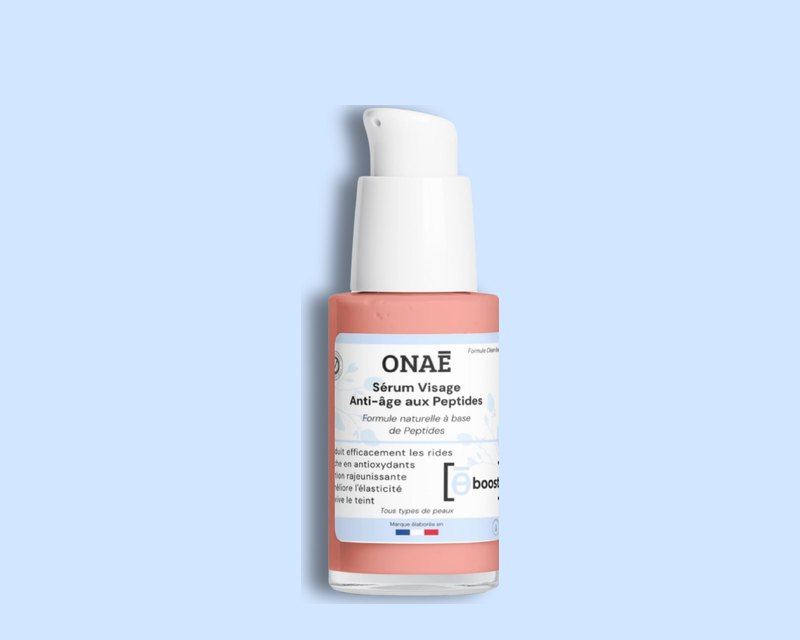
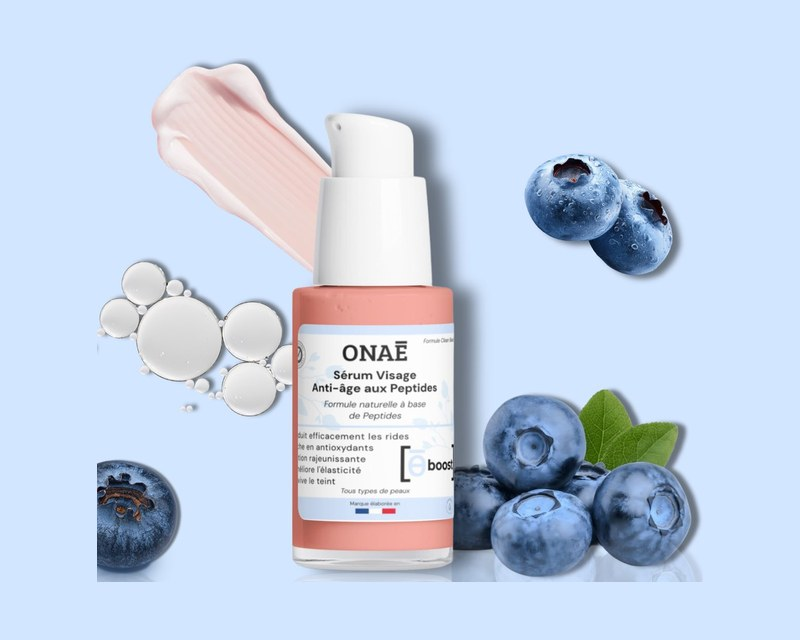
Accueil : cartes produits alignées sur la 1re photo de la galerie
Les cartes de l'accueil utilisent card-<id>.jpg, resté sur l'ancien
packshot pour les 3 soins dont la photo principale a changé (peptides,
prébiotiques, caféine). Nouveau script rejouable scratchpad/gen-card.py :
détecte le sujet dans gallery[0] (hors logos de marque et de gamme),
coupe le reflet et le recompose à l'échelle sur le fond de la gamme
en 800x640.

card-<id>.jpg garde son nom (codé en dur dans index.html) : ajout de
?v=2 sur l'URL pour casser le cache images de 24 h. Incrémenter ce
numéro à chaque régénération d'une carte. products.json?v=220.

Claude-Session: https://claude.ai/code/session_017nLZ9yWdzh1WbcLi5DTaPR

diff --git a/index.html b/index.html
@@ -1288,7 +1288,7 @@ button{cursor:pointer;border:none;background:none;font-family:inherit}
   }
   function start(){ clearInterval(loop); if(reduce) return; loop = setInterval(() => { if(visible) show((cur + 1) % R.length); }, DUR); }
 
-  fetch('/products.json?v=219').then(r => r.json()).then(d => {
+  fetch('/products.json?v=220').then(r => r.json()).then(d => {
     (d.products || []).forEach(p => { const b = (p.bundles || [])[0]; if(b && b.price_raw > 0) by[p.id] = {id:p.id, name:p.name, l2:p.name_line2 || '', price:b.price_raw, orig:b.original_price_raw || 0, c:GC[p.gamme] || '#f0ece8', cat:p.category, gamme:p.gamme}; });
     R.splice(0, R.length, ...R.filter(r => r.ids.every(id => by[id])));
     if(!R.length) return;
@@ -1959,7 +1959,7 @@ html body :is(#products,#nouveautes) .pg-arr{display:none!important}
     const off = p.price_before > raw ? Math.floor((1 - raw / p.price_before) * 100 + 1e-9) : 0;
     return `<a href="/produits/${p.id}" class="pcard">
         <div class="pimg-wrap">
-          <img decoding="async" class="pimg" src="${/^carte-cadeau/.test(p.id) ? p.image : 'card-' + p.id + '.jpg'}" alt="${p.image_alt}" loading="lazy">
+          <img decoding="async" class="pimg" src="${/^carte-cadeau/.test(p.id) ? p.image : 'card-' + p.id + '.jpg?v=2'}" alt="${p.image_alt}" loading="lazy">
           ${p.badge ? `<div class="pbadge" style="${badgeStyle}">${p.badge}</div>` : ''}
         </div>
         <div class="pinfo">
@@ -2063,7 +2063,7 @@ html body :is(#products,#nouveautes) .pg-arr{display:none!important}
     </div>`;
   }
 
-  fetch('/products.json?v=219')
+  fetch('/products.json?v=220')
     .then(r => r.json())
     .then(data => {
       const DEMO = new Set(['serum-eclat-peptides','creme-reparatrice-intense','essence-hydratante-pro','huile-nuit-reparatrice']);

diff --git a/makeup.html b/makeup.html
@@ -629,7 +629,7 @@ button{cursor:pointer;border:none;background:none;font-family:inherit}
   const G = document.getElementById('mkPrep');
   const fmt = n => n.toFixed(2).replace('.', ',') + ' €';
   const IDS = [['serum-anti-age-peptides','Étape 1 · Le sérum'],['creme-contour-yeux-peptides','Étape 2 · Le regard'],['creme-anti-age-peptides','Étape 3 · La crème']];
-  fetch('products.json?v=219').then(r => r.json()).then(d => { const P = d.products || d;
+  fetch('products.json?v=220').then(r => r.json()).then(d => { const P = d.products || d;
     G.innerHTML = IDS.map(([id, st]) => { const p = P.find(x => x.id === id); if(!p) return ''; const b = (p.bundles || [])[0] || {};
       const pr = b.price_raw, ref = b.original_price_raw, off = ref > pr ? Math.floor((1 - pr/ref)*100) : 0;
       return `<article class="mk-pc rv in"><a class="im" href="/produits/${p.id}"><img src="bar-${p.id}-hd.jpg" alt="${p.name} ${p.name_line2 || ''}" loading="lazy"></a><div class="bd"><p class="st">${st}</p><h3>${p.name} ${p.name_line2 || ''}</h3><div class="pr"><b>${pr ? fmt(pr) : ''}</b>${off ? `<s>${fmt(ref)}</s><em>−${off} %</em>` : ''}</div><div class="ac"><a href="/produits/${p.id}">Découvrir</a><button type="button" data-add-to-cart="${p.id}">Ajouter</button></div></div></article>`; }).join('');

diff --git a/homme.html b/homme.html
@@ -649,7 +649,7 @@ button{cursor:pointer;border:none;background:none;font-family:inherit}
   const G = document.getElementById('hmPrep');
   const fmt = n => n.toFixed(2).replace('.', ',') + ' €';
   const IDS = [['serum-booster-cafeine','Le coup de fouet'],['patchs-yeux-cafeine-vitamine-c','Le regard express'],['huile-fortifiante-romarin','La force du cheveu']];
-  fetch('products.json?v=219').then(r => r.json()).then(d => { const P = d.products || d;
+  fetch('products.json?v=220').then(r => r.json()).then(d => { const P = d.products || d;
     G.innerHTML = IDS.map(([id, st]) => { const p = P.find(x => x.id === id); if(!p) return ''; const b = (p.bundles || [])[0] || {};
       const pr = b.price_raw, ref = b.original_price_raw, off = ref > pr ? Math.floor((1 - pr/ref)*100) : 0;
       return `<article class="hm-pc rv in"><a class="im" href="/produits/${p.id}"><img src="bar-${p.id}-hd.jpg" alt="${p.name} ${p.name_line2 || ''}" loading="lazy"></a><div class="bd"><p class="st">${st}</p><h3>${p.name} ${p.name_line2 || ''}</h3><div class="pr"><b>${pr ? fmt(pr) : ''}</b>${off ? `<s>${fmt(ref)}</s><em>−${off} %</em>` : ''}</div><div class="ac"><a href="/produits/${p.id}">Découvrir</a><button type="button" data-add-to-cart="${p.id}">Ajouter</button></div></div></article>`; }).join('');

diff --git a/panier.html b/panier.html
@@ -1076,7 +1076,7 @@ body{background:#fbf7f8}
   /* ═══ Recommandations « qui font sens » + upsell avant paiement ═══ */
   const DEMO = new Set(['serum-eclat-peptides','creme-reparatrice-intense','essence-hydratante-pro','huile-nuit-reparatrice']);
   let PRODS = {};
-  const prodsReady = fetch('/products.json?v=219').then(r => r.json()).then(d => { (d.products || []).forEach(p => PRODS[p.id] = p); }).catch(() => {});
+  const prodsReady = fetch('/products.json?v=220').then(r => r.json()).then(d => { (d.products || []).forEach(p => PRODS[p.id] = p); }).catch(() => {});
   const kindOf = p => { const n = (p.name || '').toLowerCase(), c = p.category || 'visage';
     if (c === 'cheveux') return /shampoing/.test(n) ? 'shampoing' : /masque/.test(n) ? 'masque' : /huile/.test(n) ? 'huile' : /gommage/.test(n) ? 'gommage' : /brume/.test(n) ? 'brume-cheveux' : /sérum/.test(n) ? 'serum-cuir' : 'soin-cheveux';
     if (/patchs/.test(n)) return 'patchs'; if (c === 'yeux') return 'contour'; if (/peeling/.test(n)) return 'peeling'; if (/brume/.test(n)) return 'brume'; if (/sérum/.test(n)) return 'serum'; if (/crème/.test(n)) return 'creme'; return 'autre'; };

diff --git a/bar-a-routines.html b/bar-a-routines.html
@@ -459,7 +459,7 @@ body{background:#fff}
     {n:'Cheveux de soie', t:'Cheveux', d:'La kératine pour réparer, le romarin pour fortifier : des longueurs brillantes et souples.', bg:'#f9db86', ids:['shampoing-keratine','masque-cheveux-keratine','huile-fortifiante-romarin']}];
   const fmt = n => n.toFixed(2).replace('.', ',') + ' €', pct = (r, p) => r > p ? Math.floor((1 - p / r) * 100 + 1e-9) : 0;
   const barP = s => { const t = Math.floor(Math.round(s * 100) * .8); return (Math.floor((t + 1) / 100) * 100 - 1) / 100; };
-  fetch('/products.json?v=219').then(r => r.json()).then(d => {
+  fetch('/products.json?v=220').then(r => r.json()).then(d => {
     const by = {}; (d.products || []).forEach(p => by[p.id] = p);
     document.getElementById('biGrid').innerHTML = TRIOS.map((T, k) => { const ps = T.ids.map(i => by[i]).filter(Boolean); if(ps.length !== 3) return '';
       const sum = ps.reduce((s,p) => s + p.bundles[0].price_raw, 0), ref = ps.reduce((s,p) => s + (p.bundles[0].original_price_raw || p.bundles[0].price_raw), 0), pr = barP(sum);

diff --git a/nos-ingredients.html b/nos-ingredients.html
@@ -522,12 +522,12 @@ body{background:var(--paper)}
     }).join('');
     watch();
   }
-  fetch('/products.json?v=219').then(r => r.json()).then(d => render(d.products || [])).catch(() => render([]));
+  fetch('/products.json?v=220').then(r => r.json()).then(d => render(d.products || [])).catch(() => render([]));
   watch();
 
 
   /* ═ peptides : produits + molécule 3D ═ */
-  fetch('/products.json?v=219').then(r => r.json()).then(d => {
+  fetch('/products.json?v=220').then(r => r.json()).then(d => {
     const box = $('ppProds'), DEMO2 = ['serum-eclat-peptides','creme-reparatrice-intense','essence-hydratante-pro','huile-nuit-reparatrice'];
     (d.products || []).filter(p => !DEMO2.includes(p.id) && /hexapeptide|dipalmitoyl/i.test((p.ingredients_full || '') + (p.ingredients || []).join(' '))).forEach(p => {
       const a = document.createElement('a'); a.href = '/produits/' + p.id; a.innerHTML = `<img src="cart-${p.id}.jpg" alt="">${p.name}${p.name_line2 ? ' ' + p.name_line2 : ''}`; box.appendChild(a);

diff --git a/blog-acide-hyaluronique-guide.html b/blog-acide-hyaluronique-guide.html
@@ -798,7 +798,7 @@ if(sb) sb.addEventListener('click', async ()=>{ const d = {title: document.title
   try{ if(navigator.share) await navigator.share(d); else { await navigator.clipboard.writeText(location.href); sb.querySelector('span').textContent = 'Lien copié ✓'; setTimeout(()=> sb.querySelector('span').textContent = "Partager l'article", 2000); } }catch(_){} });
 </script>
 <script>
-fetch('/products.json?v=219').then(r=>r.json()).then(d=>{const m={};(d.products||[]).forEach(p=>{const s=(p.bundles||[]).find(b=>b.id==='solo');if(s)m[p.id]=s.price;});
+fetch('/products.json?v=220').then(r=>r.json()).then(d=>{const m={};(d.products||[]).forEach(p=>{const s=(p.bundles||[]).find(b=>b.id==='solo');if(s)m[p.id]=s.price;});
 document.querySelectorAll('.pc-price[data-pid]').forEach(el=>{if(m[el.dataset.pid])el.textContent=m[el.dataset.pid];});}).catch(()=>{});
 </script>
 <script src="cart.js?v=11"></script>

diff --git a/blog-alternative-retinol.html b/blog-alternative-retinol.html
@@ -798,7 +798,7 @@ if(sb) sb.addEventListener('click', async ()=>{ const d = {title: document.title
   try{ if(navigator.share) await navigator.share(d); else { await navigator.clipboard.writeText(location.href); sb.querySelector('span').textContent = 'Lien copié ✓'; setTimeout(()=> sb.querySelector('span').textContent = "Partager l'article", 2000); } }catch(_){} });
 </script>
 <script>
-fetch('/products.json?v=219').then(r=>r.json()).then(d=>{const m={};(d.products||[]).forEach(p=>{const s=(p.bundles||[]).find(b=>b.id==='solo');if(s)m[p.id]=s.price;});
+fetch('/products.json?v=220').then(r=>r.json()).then(d=>{const m={};(d.products||[]).forEach(p=>{const s=(p.bundles||[]).find(b=>b.id==='solo');if(s)m[p.id]=s.price;});
 document.querySelectorAll('.pc-price[data-pid]').forEach(el=>{if(m[el.dataset.pid])el.textContent=m[el.dataset.pid];});}).catch(()=>{});
 </script>
 <script src="cart.js?v=11"></script>

diff --git a/blog-cernes-et-poches.html b/blog-cernes-et-poches.html
@@ -798,7 +798,7 @@ if(sb) sb.addEventListener('click', async ()=>{ const d = {title: document.title
   try{ if(navigator.share) await navigator.share(d); else { await navigator.clipboard.writeText(location.href); sb.querySelector('span').textContent = 'Lien copié ✓'; setTimeout(()=> sb.querySelector('span').textContent = "Partager l'article", 2000); } }catch(_){} });
 </script>
 <script>
-fetch('/products.json?v=219').then(r=>r.json()).then(d=>{const m={};(d.products||[]).forEach(p=>{const s=(p.bundles||[]).find(b=>b.id==='solo');if(s)m[p.id]=s.price;});
+fetch('/products.json?v=220').then(r=>r.json()).then(d=>{const m={};(d.products||[]).forEach(p=>{const s=(p.bundles||[]).find(b=>b.id==='solo');if(s)m[p.id]=s.price;});
 document.querySelectorAll('.pc-price[data-pid]').forEach(el=>{if(m[el.dataset.pid])el.textContent=m[el.dataset.pid];});}).catch(()=>{});
 </script>
 <script src="cart.js?v=11"></script>

diff --git a/blog-cuir-chevelu-gras-pellicules.html b/blog-cuir-chevelu-gras-pellicules.html
@@ -798,7 +798,7 @@ if(sb) sb.addEventListener('click', async ()=>{ const d = {title: document.title
   try{ if(navigator.share) await navigator.share(d); else { await navigator.clipboard.writeText(location.href); sb.querySelector('span').textContent = 'Lien copié ✓'; setTimeout(()=> sb.querySelector('span').textContent = "Partager l'article", 2000); } }catch(_){} });
 </script>
 <script>
-fetch('/products.json?v=219').then(r=>r.json()).then(d=>{const m={};(d.products||[]).forEach(p=>{const s=(p.bundles||[]).find(b=>b.id==='solo');if(s)m[p.id]=s.price;});
+fetch('/products.json?v=220').then(r=>r.json()).then(d=>{const m={};(d.products||[]).forEach(p=>{const s=(p.bundles||[]).find(b=>b.id==='solo');if(s)m[p.id]=s.price;});
 document.querySelectorAll('.pc-price[data-pid]').forEach(el=>{if(m[el.dataset.pid])el.textContent=m[el.dataset.pid];});}).catch(()=>{});
 </script>
 <script src="cart.js?v=11"></script>

diff --git a/blog-keratine-cheveux-abimes.html b/blog-keratine-cheveux-abimes.html
@@ -798,7 +798,7 @@ if(sb) sb.addEventListener('click', async ()=>{ const d = {title: document.title
   try{ if(navigator.share) await navigator.share(d); else { await navigator.clipboard.writeText(location.href); sb.querySelector('span').textContent = 'Lien copié ✓'; setTimeout(()=> sb.querySelector('span').textContent = "Partager l'article", 2000); } }catch(_){} });
 </script>
 <script>
-fetch('/products.json?v=219').then(r=>r.json()).then(d=>{const m={};(d.products||[]).forEach(p=>{const s=(p.bundles||[]).find(b=>b.id==='solo');if(s)m[p.id]=s.price;});
+fetch('/products.json?v=220').then(r=>r.json()).then(d=>{const m={};(d.products||[]).forEach(p=>{const s=(p.bundles||[]).find(b=>b.id==='solo');if(s)m[p.id]=s.price;});
 document.querySelectorAll('.pc-price[data-pid]').forEach(el=>{if(m[el.dataset.pid])el.textContent=m[el.dataset.pid];});}).catch(()=>{});
 </script>
 <script src="cart.js?v=11"></script>

diff --git a/blog-lire-une-liste-inci.html b/blog-lire-une-liste-inci.html
@@ -798,7 +798,7 @@ if(sb) sb.addEventListener('click', async ()=>{ const d = {title: document.title
   try{ if(navigator.share) await navigator.share(d); else { await navigator.clipboard.writeText(location.href); sb.querySelector('span').textContent = 'Lien copié ✓'; setTimeout(()=> sb.querySelector('span').textContent = "Partager l'article", 2000); } }catch(_){} });
 </script>
 <script>
-fetch('/products.json?v=219').then(r=>r.json()).then(d=>{const m={};(d.products||[]).forEach(p=>{const s=(p.bundles||[]).find(b=>b.id==='solo');if(s)m[p.id]=s.price;});
+fetch('/products.json?v=220').then(r=>r.json()).then(d=>{const m={};(d.products||[]).forEach(p=>{const s=(p.bundles||[]).find(b=>b.id==='solo');if(s)m[p.id]=s.price;});
 document.querySelectorAll('.pc-price[data-pid]').forEach(el=>{if(m[el.dataset.pid])el.textContent=m[el.dataset.pid];});}).catch(()=>{});
 </script>
 <script src="cart.js?v=11"></script>
